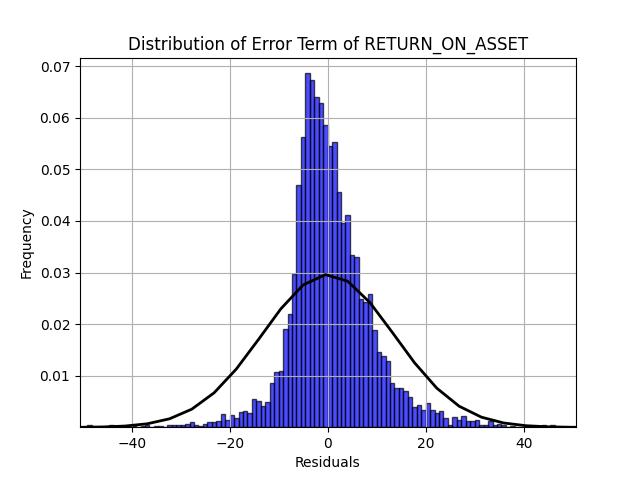
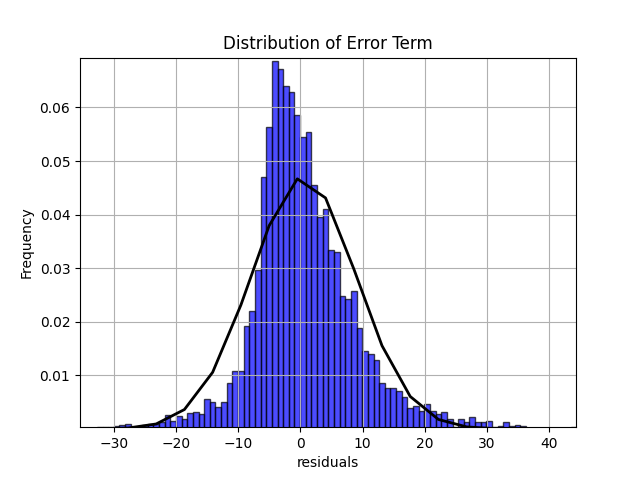
newfiles

diff --git a/from_starting_to_ending/Python_files/model_creation.py b/from_starting_to_ending/Python_files/model_creation.py
@@ -9,6 +9,8 @@ import matplotlib.pyplot as plt
 
 from scipy.stats import norm
 import statsmodels.api as sm
+from statsmodels.stats.stattools import durbin_watson
+from statsmodels.stats.diagnostic import acorr_breusch_godfrey
 
 # from statsmodels.stats.stattools import wald_test
 from sklearn.linear_model import LinearRegression
@@ -41,7 +43,8 @@ econ_df_after = econ_df.drop(
 )
 
 dependent_variables = ["RETURN_ON_ASSET", "TOBIN_Q_RATIO", "ALTMAN_Z_SCORE"]
-
+residuals_1 = pd.Series([])
+exog_1 = np.empty((1, 9))
 for values_i in dependent_variables:
     print(values_i)
     Y = econ_df_after[[values_i]]
@@ -80,6 +83,11 @@ for values_i in dependent_variables:
     # Run the White's test
     # Heteroscedasticity test (Breusch-Pagan test)
     _, pval, _, f_pval = sm.stats.diagnostic.het_breuschpagan(est.resid, est.model.exog)
+    print(est.model.exog.shape)
+    if exog_1.size == 0:
+        exog_1 = est.model.exog
+    else:
+        exog_1 = np.concatenate((exog_1, est.model.exog), axis=0)
     print(pval, f_pval)
     print("-" * 50)
 
@@ -99,57 +107,77 @@ for values_i in dependent_variables:
     # Get fitted values and residuals
     fitted_values = est.fittedvalues
     residuals = est.resid
+    residuals_1 = residuals_1.append(residuals, ignore_index=True)
 
-    # Plot residuals vs. fitted values
-
-    titla_value = "Distribution of Error Term of " + values_i
-    plt.hist(
-        residuals, bins="auto", density=True, alpha=0.7, color="blue", edgecolor="black"
-    )
-    # Fit a normal distribution to the data
-    mu, std = norm.fit(residuals)
-
-    # Plot the PDF of the fitted distribution
-    xmin, xmax = plt.xlim()
-    x = np.linspace(xmin, xmax, 100)
-    p = norm.pdf(x, mu, std)
-    plt.plot(
-        x,
-        p,
-        "k",
-        linewidth=2,
-        label="Fit results: $\mu$ = %.2f, $\sigma$ = %.2f" % (mu, std),
-    )
-    plt.title(titla_value)
-    plt.xlabel("Residuals")
-    plt.ylabel("Frequency")
-    plt.grid(True)
-    plt.show()
-    # titla_value = "Residuals vs. Fitted Values of " + values_i
+    # Assuming 'model' is your fitted regression model
+    bg_test_stat, bg_p_value, _, _ = acorr_breusch_godfrey(est)
+    print("Breusch_godfrey p-value: ", bg_p_value)
+    # Check for autocorrelation
+    if bg_p_value < 0.05:
+        print("Significant autocorrelation detected.")
+    else:
+        print("No significant autocorrelation detected.")
+    # plt.rcParams["figure.figsize"] = (18, 10)
+    # titla_value = "Distribution of Error Term"
+    # plt.hist(
+    #     residuals, bins="auto", density=True, alpha=0.7, color="blue", edgecolor="black"
+    # )
+    # # Fit a normal distribution to the data
+    # mu, std = norm.fit(residuals_1)
+    #
+    # # Plot the PDF of the fitted distribution
+    # xmin, xmax = plt.xlim()
+    # x = np.linspace(xmin, xmax, 100)
+    # p = np.exp(-((x - mu) ** 2) / (2 * std**2)) / (std * np.sqrt(2 * np.pi))
+    # plt.plot(
+    #     x,
+    #     p,
+    #     "k",
+    #     linewidth=2,
+    #     label="Fit results: $\mu$ = %.2f, $\sigma$ = %.2f" % (mu, std),
+    # )
+    # plt.title(titla_value)
+    # plt.xlabel("Residuals")
+    # plt.ylabel("Frequency")
+    # plt.grid(True)
+    # plt.show()
+    # titla_value = "residuals vs. Fitted Values of " + values_i
     # plt.scatter(fitted_values, residuals)
     # plt.axhline(y=0, color="r", linestyle="--")  # Add a horizontal line at y=0
     # plt.title(titla_value)
     # plt.xlabel("Fitted Values")
-    # plt.ylabel("Residuals")
+    # plt.ylabel("residuals")
     # plt.show()
     # print("#" * 100)
     #
-    # titla_value = "Residuals vs. log(Fitted Values of " + values_i
+    # titla_value = "residuals vs. log(Fitted Values of " + values_i
     # plt.scatter(np.log(fitted_values), residuals)
     # plt.axhline(y=0, color="r", linestyle="--")  # Add a horizontal line at y=0
     # plt.title(titla_value)
     # plt.xlabel("Fitted Values")
-    # plt.ylabel("Residuals")
+    # plt.ylabel("residuals")
     # plt.show()
     # print("#" * 100)
+_, pval, _, f_pval = sm.stats.diagnostic.het_breuschpagan(residuals_1, exog_1)
+
+if pval > 0.05:
+    print("For the Breusch-Pagan's Test")
+    print("The p-value was {:.4}".format(pval))
+    print("We fail to reject the null hypthoesis, so there is no heterosecdasticity.")
+
+else:
+    print("For the Breusch-Pagan's Test")
+    print("The p-value was {:.4}".format(pval))
+    print("We reject the null hypthoesis, so there is heterosecdasticity.")
 exit()
+
 model1 = sm.OLS(Y, X2)
 
 # fit the data
 est = model.fit()
 # Run the White's test
 # Heteroscedasticity test (Breusch-Pagan test)
-_, pval, _, f_pval = sm.stats.diagnostic.het_breuschpagan(est.resid, est.model.exog)
+_, pval, _, f_pval = sm.stats.diagnostic.het_breuschpagan(est.d, est.model.exog)
 print(pval, f_pval)
 print("-" * 100)
 
@@ -171,9 +199,9 @@ residuals = est.resid
 # Plot residuals vs. fitted values
 plt.scatter(fitted_values, residuals)
 plt.axhline(y=0, color="r", linestyle="--")  # Add a horizontal line at y=0
-plt.title("Residuals vs. Fitted Values")
+plt.title("residuals vs. Fitted Values")
 plt.xlabel("Fitted Values")
-plt.ylabel("Residuals")
+plt.ylabel("residuals")
 plt.show()
 exit()
 # print(pval, f_pval)
@@ -193,7 +221,7 @@ exit()
 #     print("We reject the null hypthoesis, so there is heterosecdasticity. \n")
 #
 # # Run the Breusch-Pagan test
-# _, pval, __, f_pval = diag.het_breuschpagan(est.resid, est.model.exog)
+# _, pval, __, f_pval = diag.het_breuschpagan(est.d, est.model.exog)
 # print(pval, f_pval)
 # print("-" * 100)
 #

diff --git a/from_starting_to_ending/Python_files/GLS.py b/from_starting_to_ending/Python_files/GLS.py
@@ -1,0 +1,66 @@
+import os
+import numpy as np
+import pandas as pd
+import seaborn as sns
+from scipy.stats import probplot
+import matplotlib.pyplot as plt
+import statsmodels.api as sm
+from statsmodels.stats.diagnostic import acorr_ljungbox
+
+file_path = "/Users/gnbhavithran/Python_github/savitha/Savitha_offl/from_starting_to_ending/new_files/"
+econ_df_1 = pd.read_csv(os.path.join(file_path, "timeLag_2003.csv"), index_col=0)
+econ_df_1 = econ_df_1[econ_df_1["Year"] > 2007]
+econ_df_1 = pd.DataFrame(econ_df_1)
+# set the index to the year column
+econ_df_1 = econ_df_1.set_index("Year")
+for column_name in econ_df_1.columns:
+    if econ_df_1[column_name].isnull().values.any():
+        print(column_name)
+        index = econ_df_1[column_name].index[econ_df_1[column_name].apply(np.isnan)]
+        # inds = pd.isnull(econ_df_1).any(column_name).nonzero()[0]
+        df_index = econ_df_1.index.values.tolist()
+        inds = [df_index.index(i) for i in index]
+        print(inds)
+
+
+econ_df = econ_df_1.drop(["Company Name"], axis=1)
+# set the data type and select rows up to 2016
+econ_df = econ_df.astype(float)
+independent_variables = [
+    "ENVIRON_DISCLOSURE_SCORE",
+    "SOCIAL_DISCLOSURE_SCORE",
+    "GOVNCE_DISCLOSURE_SCORE",
+    "ESG_DISCLOSURE_SCORE",
+]
+dependent_variables = ["RETURN_ON_ASSET", "TOBIN_Q_RATIO", "ALTMAN_Z_SCORE"]
+
+for ind_variables in independent_variables:
+    drop_vals = [x for x in independent_variables if x != ind_variables]
+    econ_df_after = econ_df.drop(drop_vals, axis=1)
+    for values_i in dependent_variables:
+        print(drop_vals, " and ", values_i)
+        y = econ_df_after[[values_i]]
+        X = econ_df_after.drop(
+            ["ALTMAN_Z_SCORE", "RETURN_ON_ASSET", "TOBIN_Q_RATIO"], axis=1
+        )
+        # Fit GLS regression model
+        X_with_constant = sm.add_constant(X)  # Add a constant term
+        model = sm.GLS(y, X_with_constant)
+        results = model.fit()
+
+        # Display regression results
+        print(results.summary())
+
+        resuls = results.summary()
+
+        # Assuming 'results' is your GLS regression results
+        residuals = results.resid
+
+        # Assuming 'results' is your GLS regression results
+        # lb_test = acorr_ljungbox(results.resid)
+        # print("Ljung-Box test p-values:", lb_test[1])
+        # sns.histplot(residuals, kde=True)
+        # plt.title("Histogram of Residuals")
+        # plt.show()
+        print("-" * 50)
+    print("*" * 75)
